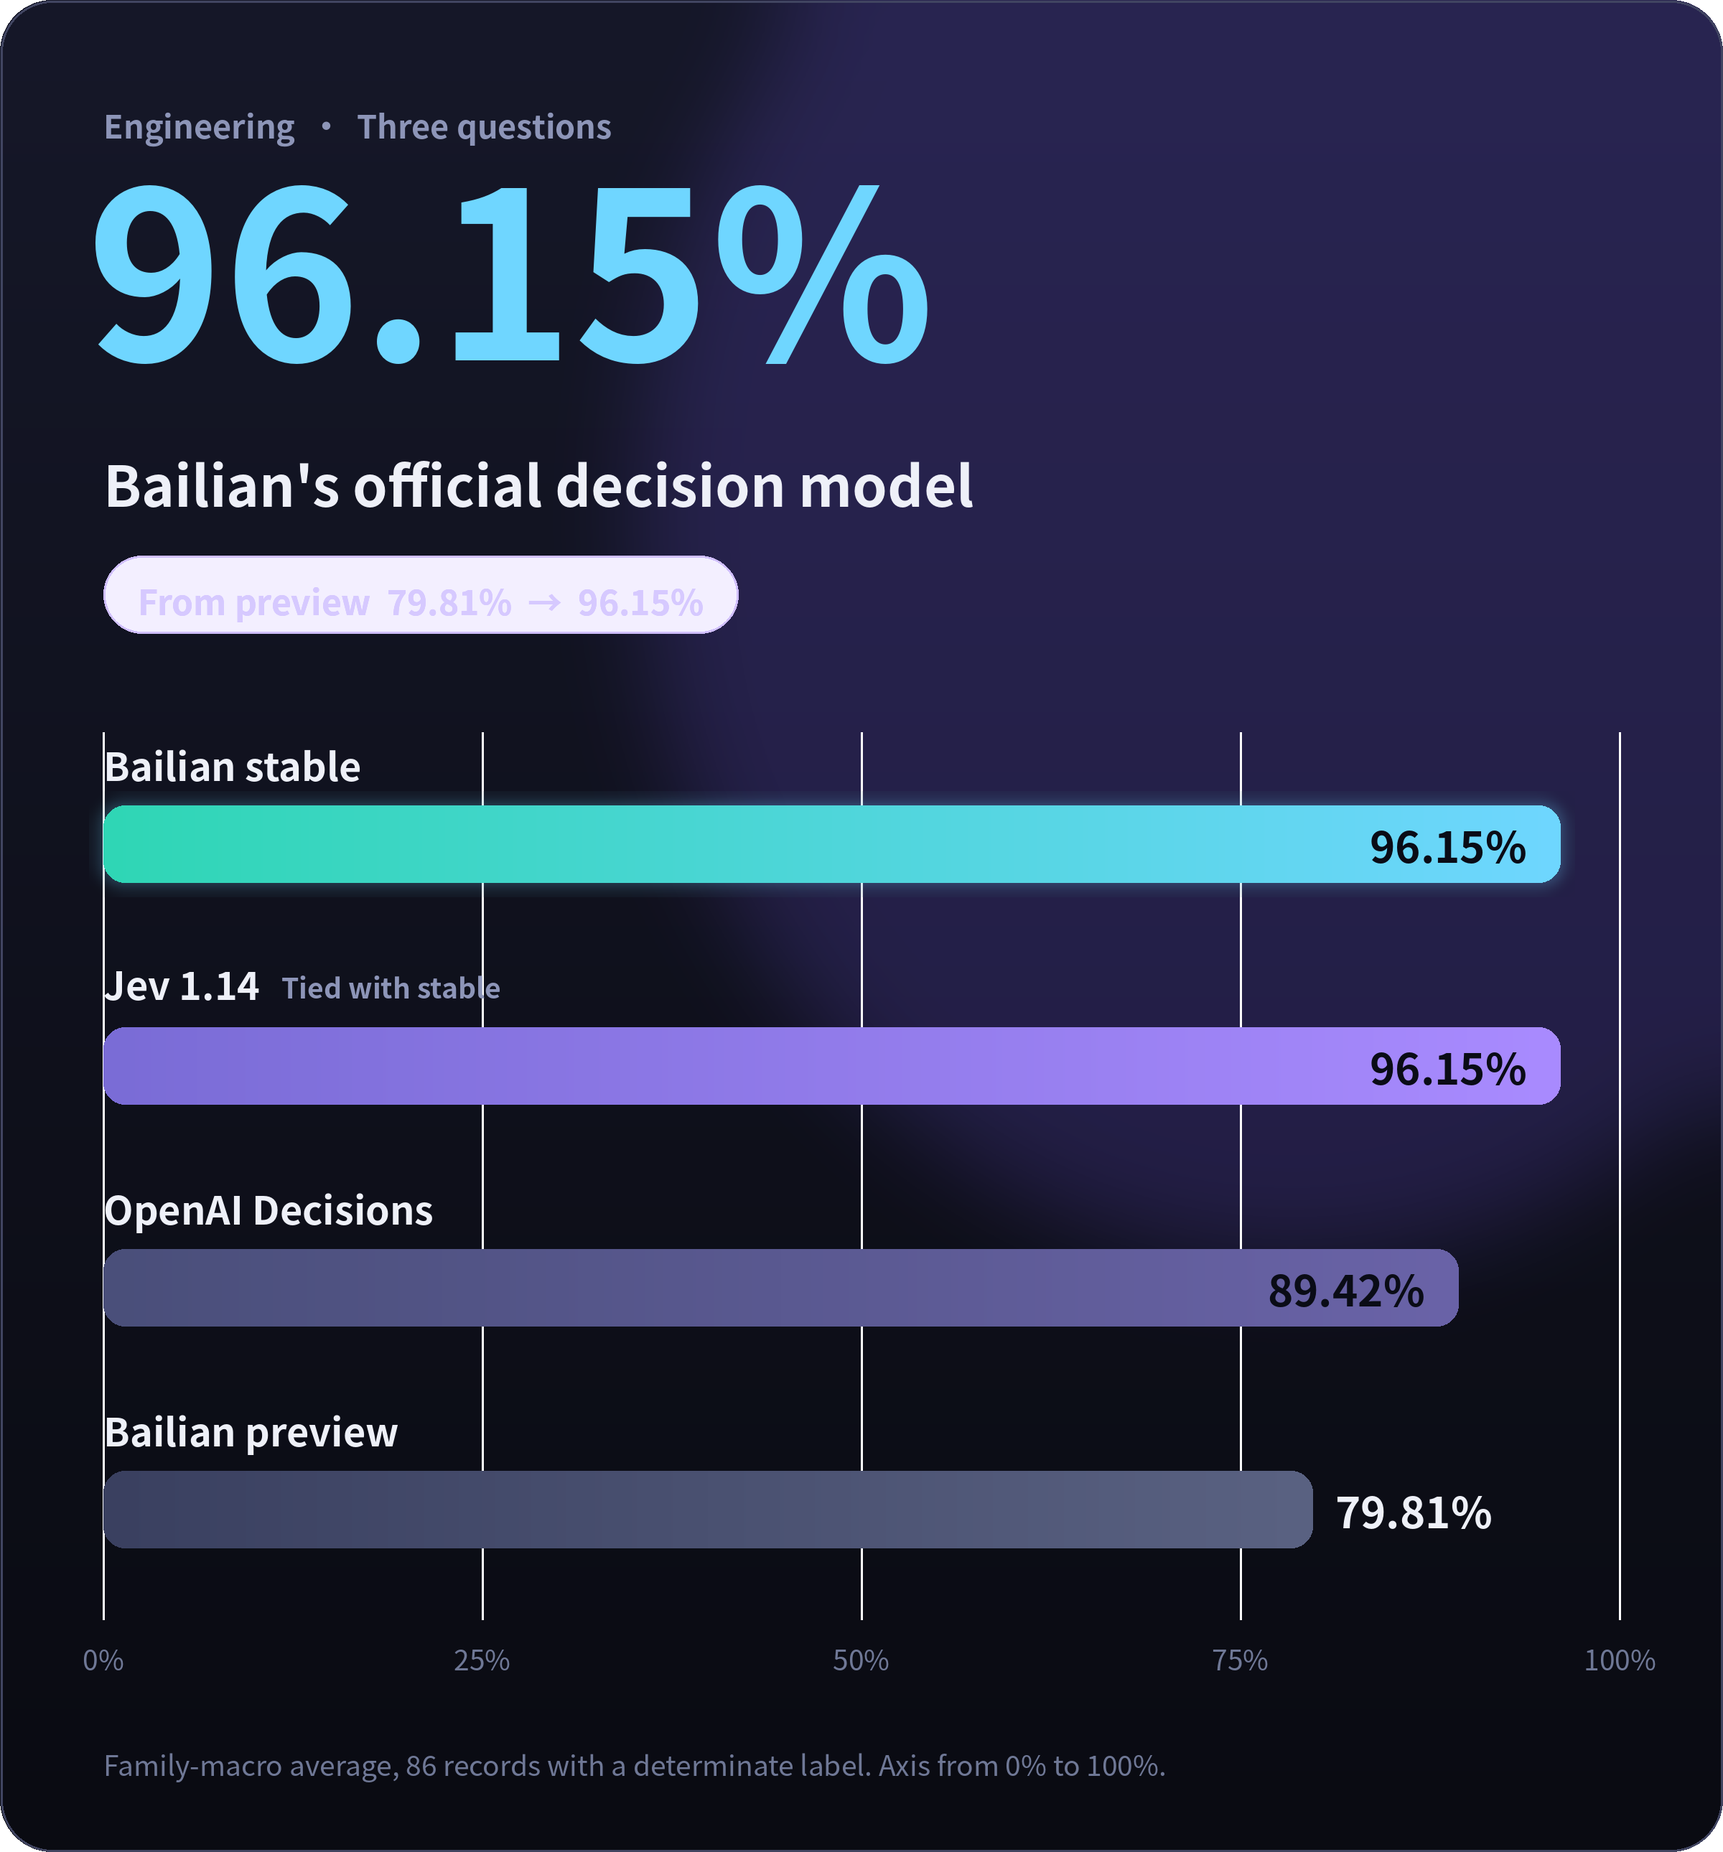
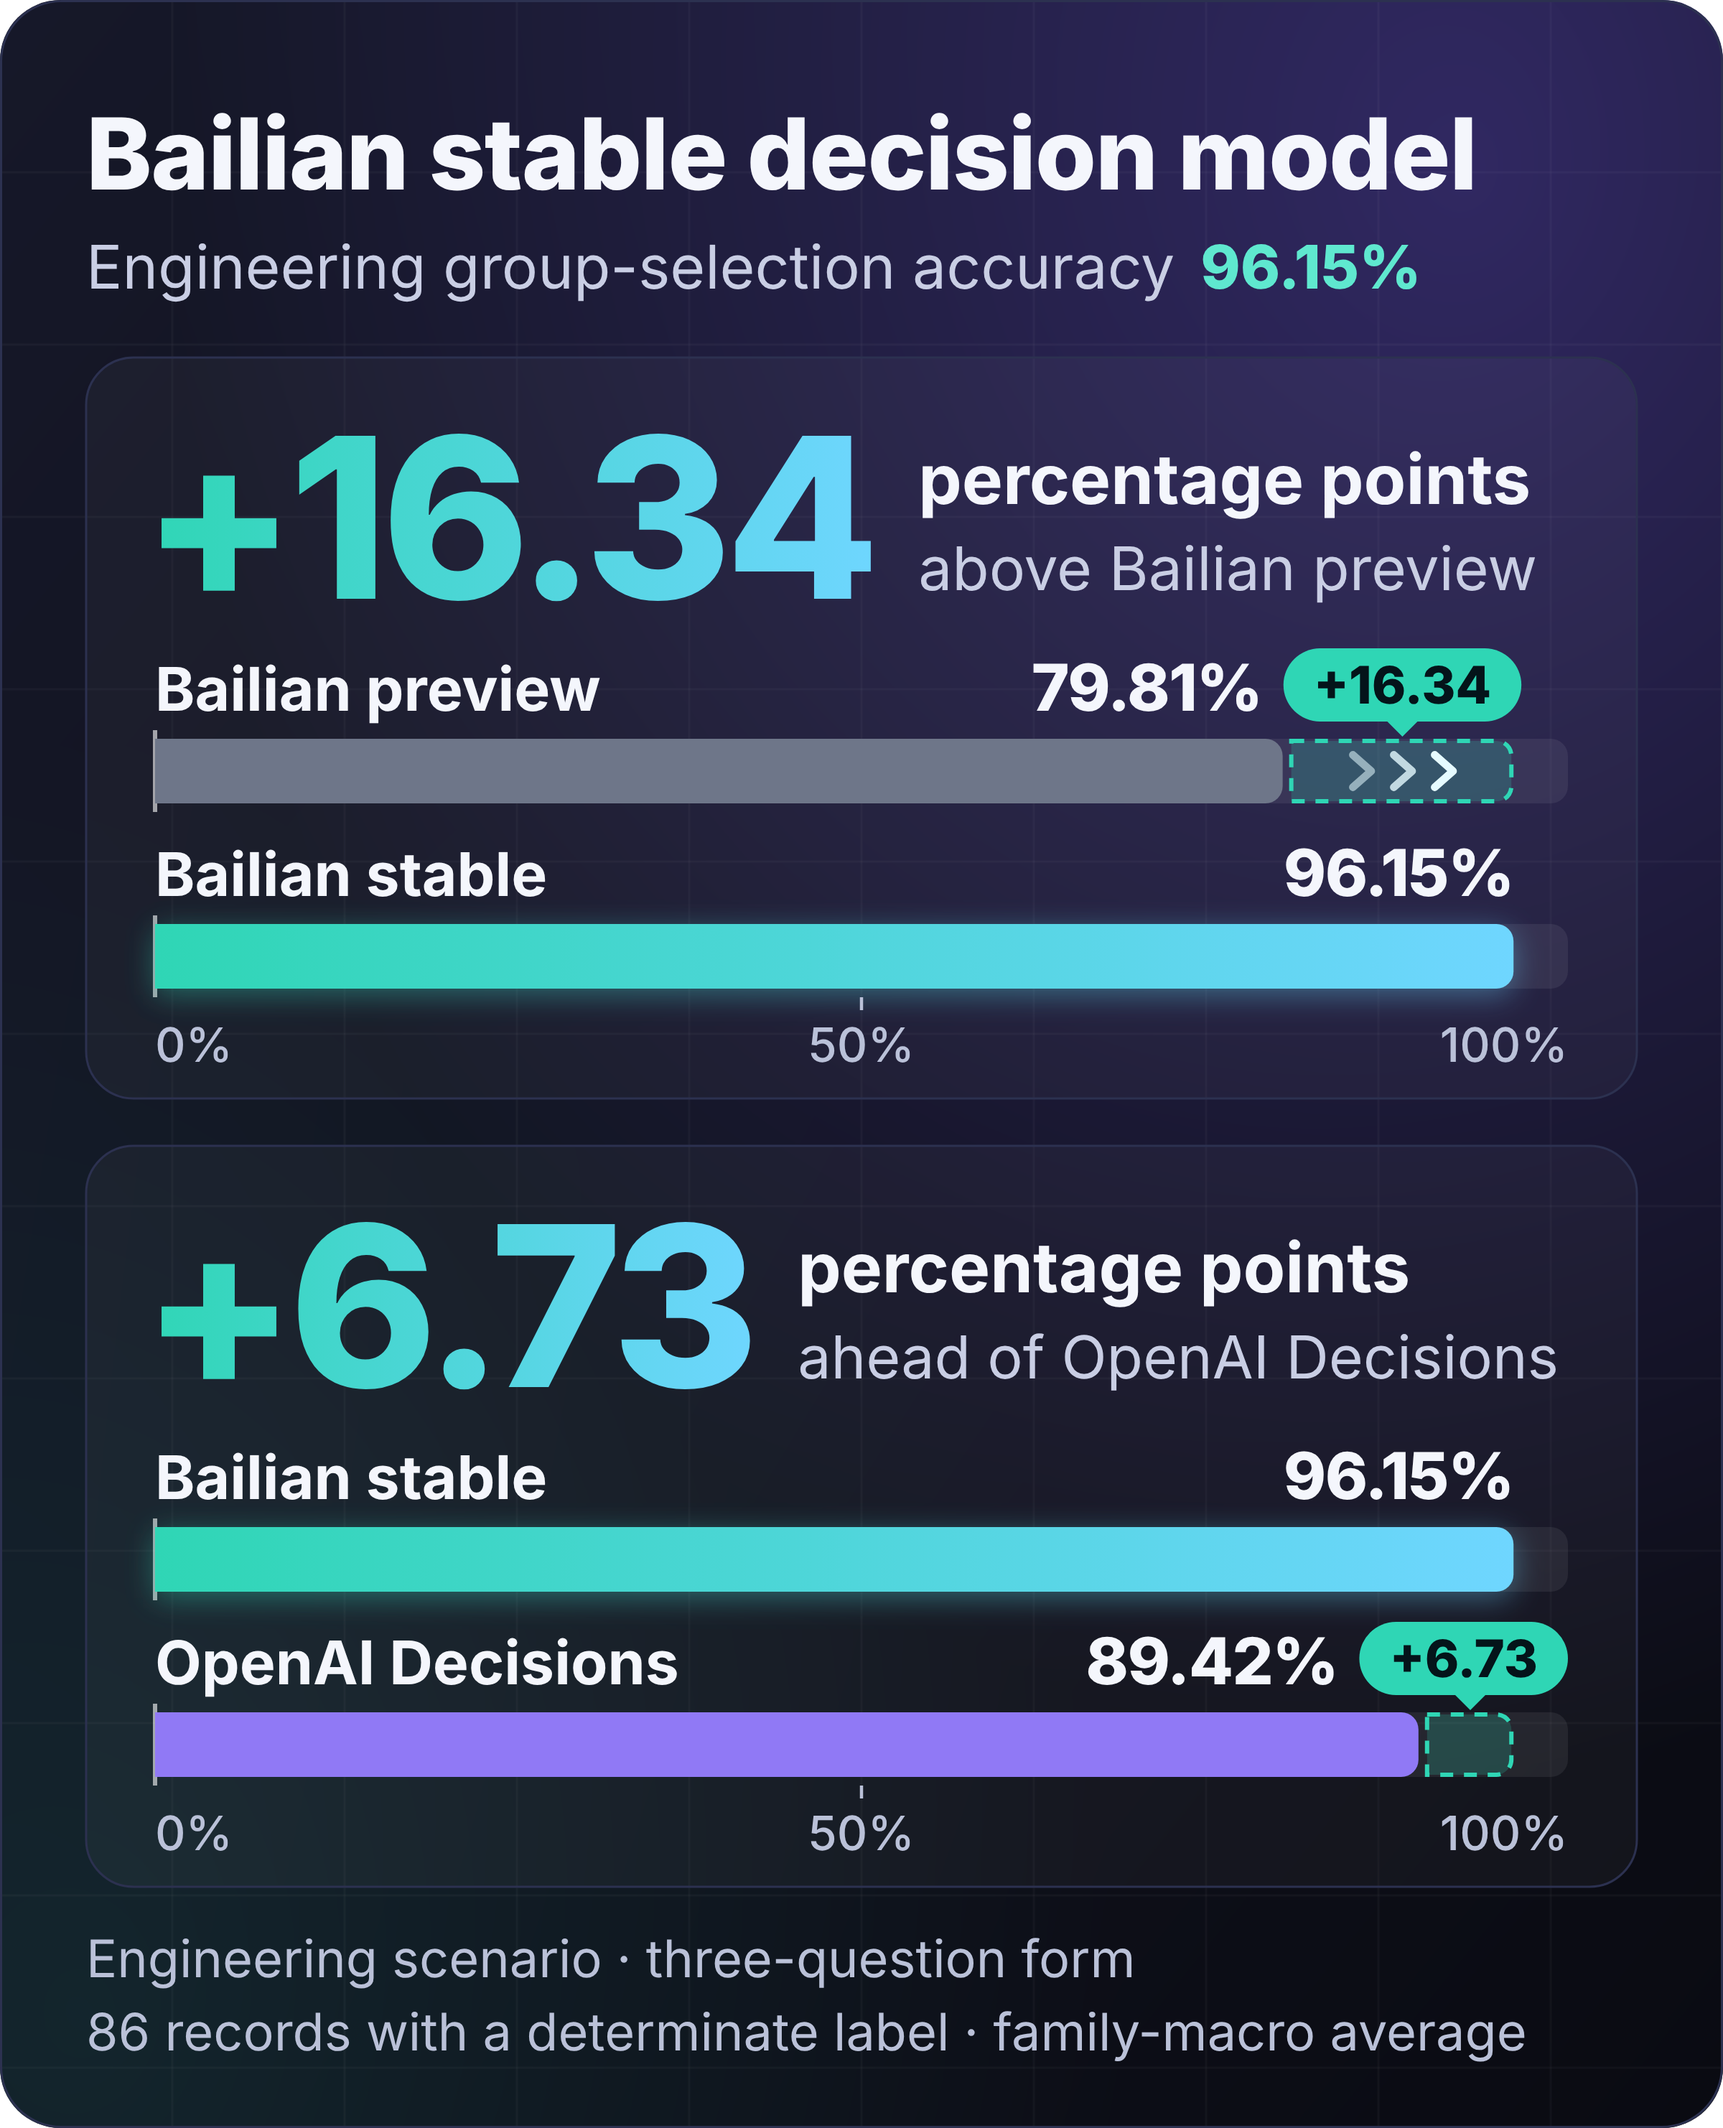
news: replace the Bailian accuracy chart with the two-story redesign
Use the approved chart that shows the 16.34-point lift over the
preview and the 6.73-point lead over OpenAI Decisions. Update only
the alt text and caption, and drop the Jev 1.14 tie from those lines.

diff --git a/news/2026-11-27-bailian-stable-decision.en.md b/news/2026-11-27-bailian-stable-decision.en.md
@@ -2,9 +2,9 @@
 
 Alibaba Cloud Bailian (Model Studio) has released an official, stable decision model, with the model ID `decision-model`. HiRoute adds it to Bailian workspace decision connections in this change. Before merging, we compared it with the earlier `decision-model-preview` under identical conditions, on a public set of bilingual engineering checkpoints. On the engineering panel, group-selection accuracy rose from 79.81% to 96.15%, and also surpassed OpenAI Decisions at 89.42% on the same records.
 
-![Engineering group-selection accuracy: Bailian stable 96.15%, tied with Jev 1.14, ahead of OpenAI Decisions at 89.42% and the Bailian preview at 79.81%](assets/bailian-stable-accuracy-en.png)
+![Engineering group-selection accuracy: Bailian stable 96.15%, up 16.34 percentage points from the preview at 79.81%, and 6.73 percentage points ahead of OpenAI Decisions at 89.42%](assets/bailian-stable-accuracy-en.png)
 
-*Engineering scenario, three-question form, 86 records with a determinate label.*
+*Engineering scenario, three-question form, 86 records with a determinate label. Stable is 16.34 percentage points above the preview and 6.73 percentage points ahead of OpenAI Decisions.*
 
 The fuller results first:
 

diff --git a/news/2026-11-27-bailian-stable-decision.zh-CN.md b/news/2026-11-27-bailian-stable-decision.zh-CN.md
@@ -2,9 +2,9 @@
 
 阿里云百炼推出了决策模型正式版（稳定版，模型 ID 为 `decision-model`）。HiRoute 把它加进了百炼业务空间的决策模型连接。合入之前，我们用一组公开的中英文工程检查点，把它和此前的预览版 `decision-model-preview` 放在完全相同的条件下比了一次。在工程场景里，选组准确率从 79.81% 提升到 96.15%，也超过了同一组记录上 OpenAI Decisions 的 89.42%。
 
-![工程场景选组准确率：百炼正式版 96.15%，与 Jev 1.14 持平，超过 OpenAI Decisions 的 89.42% 和预览版的 79.81%](assets/bailian-stable-accuracy-zh.png)
+![工程场景选组准确率：百炼正式版 96.15%，较预览版 79.81% 提升 16.34 个百分点，领先 OpenAI Decisions 的 89.42% 达 6.73 个百分点](assets/bailian-stable-accuracy-zh.png)
 
-*工程场景，三个问题问法，86 条有确定标签的记录。*
+*工程场景，三个问题问法，86 条有确定标签的记录。正式版较预览版提升 16.34 个百分点，领先 OpenAI Decisions 6.73 个百分点。*
 
 先说更完整的结果：
 
